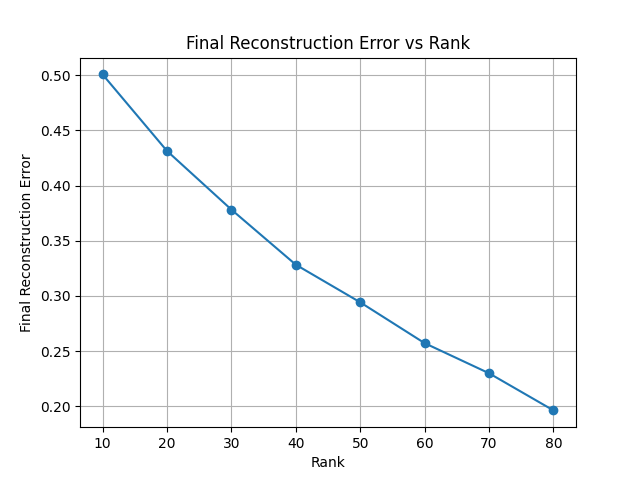
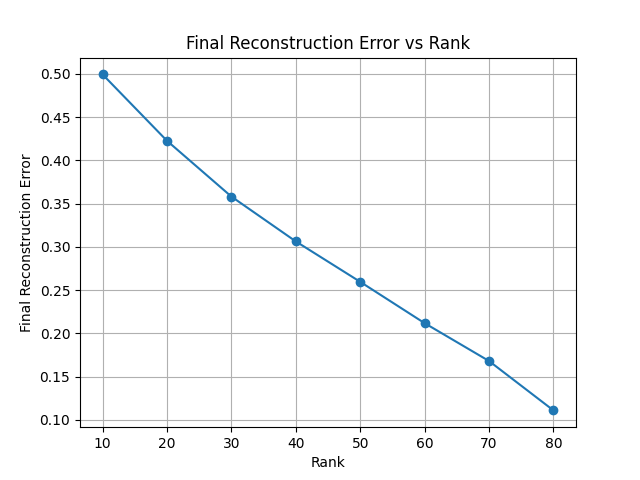
modified data gen

diff --git a/src/utils/Data_Gen.py b/src/utils/Data_Gen.py
@@ -1,22 +1,23 @@
 import numpy as np
-from nmf import NonNegMatrix
+from nmf.NonNegMatrix import NonNegMatrix
 
 class Data_Gen:
-    def __init__(self, size : (tuple), distr: str ='uniform', random_state = None) -> None:
+    def __init__(self, m: int  , n: int , r: int, random_state = None) -> None:
         """
         param 
         size: tuple (m : int, n: int) representing the dimensions of the generated data matrix.
         distr: distribution type for generating data, default is 'uniform'.
         random_state: int a seed for reproducing the results.
         """
-        self.size = size
-        self.distr = distr 
+        self.m = m
+        self.n = n
+        self.r = r
         if random_state is not None:
             # set random seed  for reproducibility
-            np.random.seed(random_state)
-     
+            self.seed = np.random.seed(random_state)
+            self.rng = np.random.default_rng(self.seed)
 
-    def generate_data(self) -> NonNegMatrix:
+    def generate_data(self, distr: str = "normal") -> NonNegMatrix:
         """
         Docstring for generate_data
         
@@ -25,16 +26,16 @@ class Data_Gen:
         :rtype: NonNegMatrix
         """
         self.data = None
-        match self.distr:
+        match distr:
             case 'uniform':
-                data = np.random.uniform(low=0.0, high=1.0, size=self.size)
+                data = np.random.uniform(low=0.0, high=1.0, size=(self.m, self.n)) # @ np.random.uniform(low=0.0, high=1.0, size=(self.r, self.n))
             case 'normal':
-                data = np.abs(np.random.normal(loc=0.0, scale=1.0, size=self.size))
+                data = np.abs(np.random.normal(loc=0.0, scale=1.0, size=(self.m, self.n))) #  @ np.abs(np.random.normal(loc=0.0, scale=1.0, size=(self.r, self.n)))
             case 'poisson':
-                data = np.random.poisson(lam=5.0, size=self.size)
+                data = np.random.poisson(lam=5.0, size=(self.m, self.n)) # @ np.random.poisson(lam=5.0, size=(self.r, self.n))
             case _:
-                raise ValueError(f"Unsupported distribution type: {self.distr}")
-        
+                raise ValueError(f"Unsupported distribution type: {distr}")
+        # data = data/np.max(data)  # normalize data to [0, 1]
         self.data = NonNegMatrix(data)
         return self.data
     

diff --git a/src/examples/example_feature_extarction.py b/src/examples/example_feature_extarction.py
@@ -10,7 +10,7 @@ The dataset CBCL consists in a 2429 x 361 pixels where each column represent a 1
 The NMF model with MU algorithm is applied with a factorization rank r = 49. After the fitting two matrices W of size (2429 x 49) and H of size (49 x 361) are obtained.
 Due to the non-negative constraints of the NMF model the matrix W can still be interpreted in the same way as the original matrix, each column of the W can be reshaped
 to a 19 x 19 matrix and displayed. The main result of Lee & Seung is that NMF is able to learn a representation of faces by "parts".
-TODO: reconstruction and sparsity measures.
+TODO: weights visualization.
 """
 
 def load_dataset() -> NonNegMatrix:
@@ -43,7 +43,7 @@ def fit_model(rank:int, show: bool = False, solver: str = "MU") -> NMF:
     return model
 
     
-def reconstuct_face(idx:int ,model: NMF) -> NonNegMatrix:
+def reconstruct_face(idx:int ,model: NMF) -> NonNegMatrix:
     """
     param idx: index of the face to reconstruct (0 <= idx < n)
     param model: fitted NMF model
@@ -57,9 +57,12 @@ def reconstuct_face(idx:int ,model: NMF) -> NonNegMatrix:
     if V \approx WH then the j-th column of V can be written as V(:,j) = WH(:,j)
     this is a linear combination of the column of W weighted with the values of the matrix H
     i.e. V[:,j] = H[1,j]W[:,1] + H[2,j]W[:,2]+...+H[r,j]W[:,r]
-    furthermore note that the number of rows of H is precisely the number of images in V so there is a one-to-one mapping.
+    furthermore note that the number of columns of H is precisely the number of images in V so there is a one-to-one mapping between them. 
     """
-    return NonNegMatrix(model.W @ model.H[:,idx])
+    reconstructed = model.W @ model.H[:,idx]
+    V = load_dataset()
+    print(f"Error in reconstructing face {idx}: {np.linalg.norm(V[:,idx]-reconstructed)/np.linalg.norm(V[:,idx])}")
+    return NonNegMatrix(reconstructed)
 
 
 
@@ -69,6 +72,7 @@ def run_example() -> None:
     display(fitted_model.W[:,:reconstruction_rank], perrow=7,Li=19, Co=19, bw=0, show=True)
     print(f"reconstruction error: {fitted_model.get_final_error()}")
     print(f"sparsity of W:{measure_sparsity(fitted_model.W)}")
+    # reconstruct_face(2, fitted_model)
 
 
 
